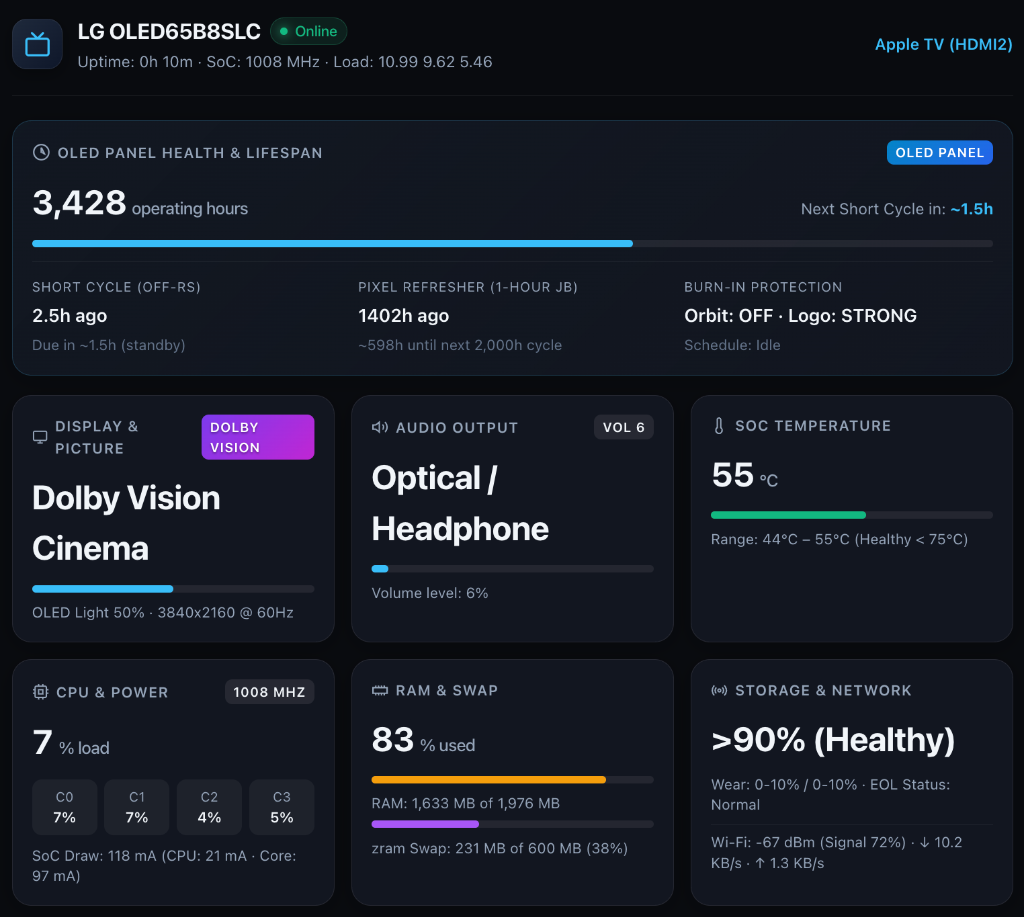
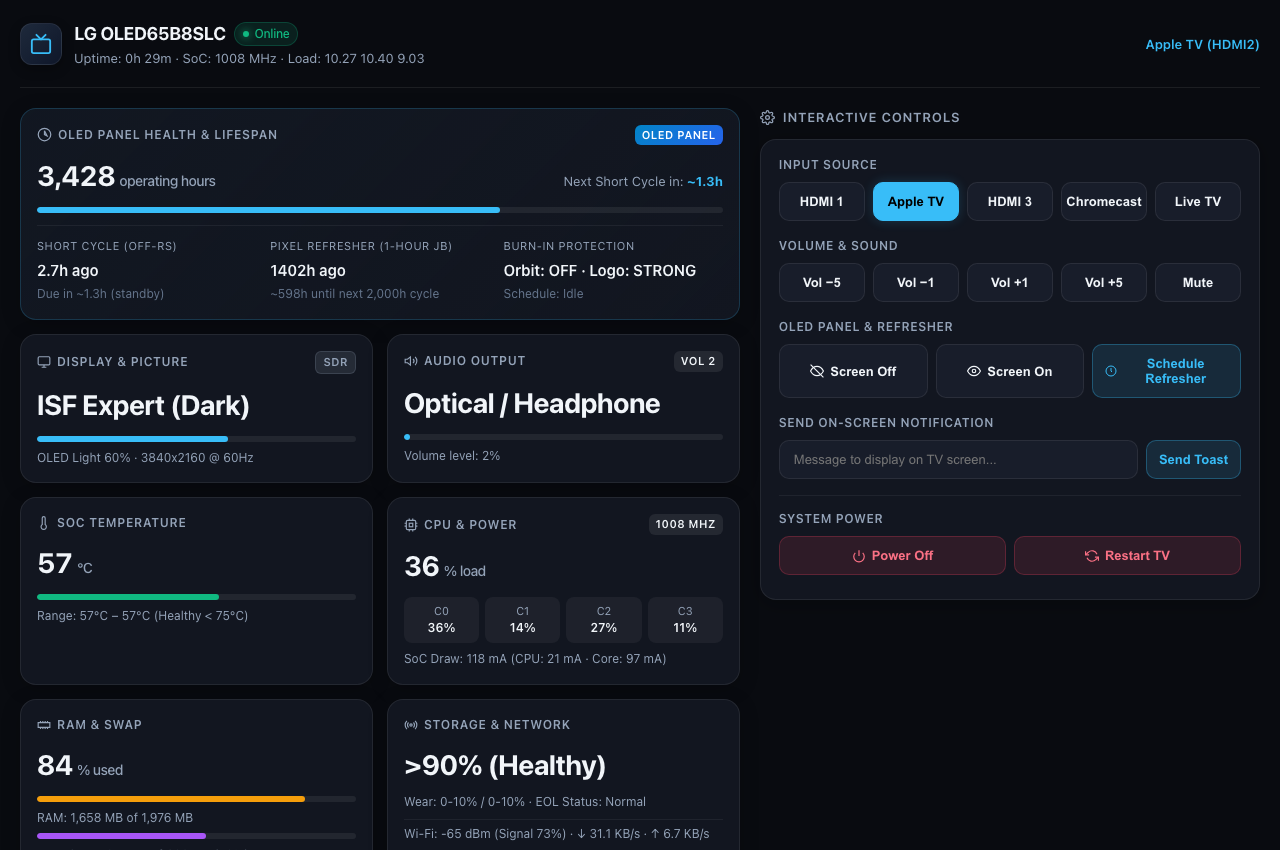
feat(ui): implement 2-column desktop layout separating telemetry and controls

diff --git a/server/tvweb.js b/server/tvweb.js
@@ -589,10 +589,43 @@ var PAGE = [
   '  color: var(--fg);',
   '  font-family: -apple-system, BlinkMacSystemFont, "Segoe UI", Roboto, Inter, Helvetica, Arial, sans-serif;',
   '  line-height: 1.5;',
-  '  padding: 20px 16px 40px;',
-  '  max-width: 860px;',
+  '  padding: 20px 20px 40px;',
+  '  max-width: 1320px;',
   '  margin: 0 auto;',
   '  -webkit-font-smoothing: antialiased;',
+  '}',
+  '',
+  '/* 2-Column Dashboard Layout */',
+  '.dashboard-layout {',
+  '  display: grid;',
+  '  grid-template-columns: minmax(0, 1.18fr) minmax(360px, 0.82fr);',
+  '  gap: 20px;',
+  '  align-items: start;',
+  '}',
+  '@media (max-width: 992px) {',
+  '  .dashboard-layout {',
+  '    grid-template-columns: 1fr;',
+  '    gap: 16px;',
+  '  }',
+  '}',
+  '.col-data {',
+  '  display: flex;',
+  '  flex-direction: column;',
+  '  gap: 14px;',
+  '  min-width: 0;',
+  '}',
+  '.col-controls {',
+  '  display: flex;',
+  '  flex-direction: column;',
+  '  gap: 10px;',
+  '  min-width: 0;',
+  '  position: sticky;',
+  '  top: 20px;',
+  '}',
+  '@media (max-width: 992px) {',
+  '  .col-controls {',
+  '    position: static;',
+  '  }',
   '}',
   '',
   '/* Header */',
@@ -661,9 +694,13 @@ var PAGE = [
   '/* Grid & Cards */',
   '.grid {',
   '  display: grid;',
-  '  grid-template-columns: repeat(auto-fit, minmax(240px, 1fr));',
+  '  grid-template-columns: repeat(2, minmax(0, 1fr));',
   '  gap: 14px;',
-  '  margin-bottom: 20px;',
+  '}',
+  '@media (max-width: 580px) {',
+  '  .grid {',
+  '    grid-template-columns: 1fr;',
+  '  }',
   '}',
   '.card {',
   '  background: var(--surface);',
@@ -809,7 +846,7 @@ var PAGE = [
   '  text-transform: uppercase;',
   '  letter-spacing: 0.06em;',
   '  color: var(--dim);',
-  '  margin: 24px 0 12px;',
+  '  margin: 0 0 2px;',
   '  display: flex;',
   '  align-items: center;',
   '  gap: 8px;',
@@ -818,11 +855,11 @@ var PAGE = [
   '  background: var(--surface);',
   '  border: 1px solid var(--border);',
   '  border-radius: 16px;',
-  '  padding: 18px;',
-  '  margin-bottom: 16px;',
+  '  padding: 16px 18px;',
+  '  box-shadow: 0 4px 20px rgba(0,0,0,0.2);',
   '}',
   '.control-group {',
-  '  margin-bottom: 18px;',
+  '  margin-bottom: 16px;',
   '}',
   '.control-group:last-child {',
   '  margin-bottom: 0;',
@@ -838,7 +875,7 @@ var PAGE = [
   '',
   '.btn-grid {',
   '  display: grid;',
-  '  grid-template-columns: repeat(auto-fit, minmax(84px, 1fr));',
+  '  grid-template-columns: repeat(auto-fit, minmax(68px, 1fr));',
   '  gap: 8px;',
   '}',
   'button {',
@@ -957,8 +994,11 @@ var PAGE = [
   '  </div>',
   '</header>',
   '',
+  '<main class="dashboard-layout">',
+  '<!-- Left Column: Telemetry & Status -->',
+  '<section class="col-data">',
   '<!-- Featured OLED Health Card -->',
-  '<div class="card featured" style="margin-bottom: 16px;">',
+  '<div class="card featured" style="margin-bottom: 0;">',
   '  <div class="card-hdr">',
   '    <div class="card-lbl">',
   '      <svg width="15" height="15" viewBox="0 0 24 24" fill="none" stroke="currentColor" stroke-width="2"><circle cx="12" cy="12" r="10"></circle><polygon points="12 6 12 12 16 14"></polygon></svg>',
@@ -1075,8 +1115,10 @@ var PAGE = [
   '    <div class="meta-text" id="netmeta" style="margin-top: 8px; border-top: 1px solid rgba(255,255,255,0.06); padding-top: 6px;">-</div>',
   '  </div>',
   '</div>',
+  '</section>',
   '',
-  '<!-- Controls Section -->',
+  '<!-- Right Column: Interactive Controls -->',
+  '<section class="col-controls">',
   '<div class="section-title">',
   '  <svg width="15" height="15" viewBox="0 0 24 24" fill="none" stroke="currentColor" stroke-width="2"><circle cx="12" cy="12" r="3"></circle><path d="M19.4 15a1.65 1.65 0 0 0 .33 1.82l.06.06a2 2 0 0 1 0 2.83 2 2 0 0 1-2.83 0l-.06-.06a1.65 1.65 0 0 0-1.82-.33 1.65 1.65 0 0 0-1 1.51V21a2 2 0 0 1-2 2 2 2 0 0 1-2-2v-.09A1.65 1.65 0 0 0 9 19.4a1.65 1.65 0 0 0-1.82.33l-.06.06a2 2 0 0 1-2.83 0 2 2 0 0 1 0-2.83l.06-.06a1.65 1.65 0 0 0 .33-1.82 1.65 1.65 0 0 0-1.51-1H3a2 2 0 0 1-2-2 2 2 0 0 1 2-2h.09A1.65 1.65 0 0 0 4.6 9a1.65 1.65 0 0 0-.33-1.82l-.06-.06a2 2 0 0 1 0-2.83 2 2 0 0 1 2.83 0l.06.06a1.65 1.65 0 0 0 1.82.33H9a1.65 1.65 0 0 0 1-1.51V3a2 2 0 0 1 2-2 2 2 0 0 1 2 2v.09a1.65 1.65 0 0 0 1 1.51 1.65 1.65 0 0 0 1.82-.33l.06-.06a2 2 0 0 1 2.83 0 2 2 0 0 1 0 2.83l-.06.06a1.65 1.65 0 0 0-.33 1.82V9a1.65 1.65 0 0 0 1.51 1H21a2 2 0 0 1 2 2 2 2 0 0 1-2 2h-.09a1.65 1.65 0 0 0-1.51 1z"></path></svg>',
   '  Interactive Controls',
@@ -1152,6 +1194,8 @@ var PAGE = [
   '    <div class="meta-text" id="pwnote" style="margin-top: 8px;"></div>',
   '  </div>',
   '</div>',
+  '</section>',
+  '</main>',
   '',
   '<script>',
   'const K = new URLSearchParams(location.search).get("k") || "";',
